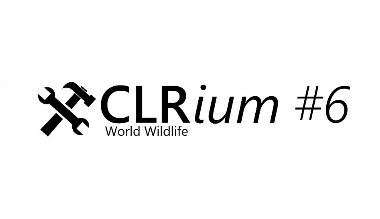
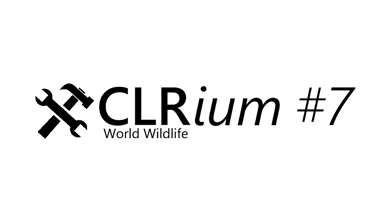
Changed CLRium #6 -> #7

Changed region(s): [[0.0868, 0.3562, 0.7526, 0.6301], [0.7816, 0.3836, 0.9553, 0.5753], [0.0868, 0.5753, 0.1447, 0.6301]]

diff --git a/matrix.html b/matrix.html
@@ -1,7 +1,7 @@
 <!DOCTYPE html>
 <html><head>
     <meta http-equiv="content-type" content="text/html; charset=UTF-8">
-    <title>CLRium #6: Concurrency & Parallelism</title>
+    <title>CLRium #7: Практика работы с многопоточным кодом</title>
     <meta charset="utf-8">
     <meta name="viewport" content="width=1000">                                       
     <meta property="og:title" content="CLRium #6: Concurrency" />

diff --git a/index.html b/index.html
@@ -1,7 +1,7 @@
 <!DOCTYPE html>
 <html><head>
 <meta http-equiv="content-type" content="text/html; charset=UTF-8">
-    <title>CLRium #6: Concurrency & Parallelism</title>
+    <title>CLRium #7: Практика работы с многопоточным кодом</title>
     <meta charset="utf-8">
     <meta name="viewport" content="width=1000">
     <meta property="og:image" content="img/thumbnail.png" />

diff --git a/register.html b/register.html
@@ -1,7 +1,7 @@
 <!DOCTYPE html>
 <html><head>
     <meta http-equiv="content-type" content="text/html; charset=UTF-8">
-    <title>CLRium #6: Concurrency & Parallelism</title>
+    <title>CLRium #7: Практика работы с многопоточным кодом</title>
     <meta charset="utf-8">
     <meta name="viewport" content="width=1000">
     <link rel="stylesheet" href="css/style.css">
